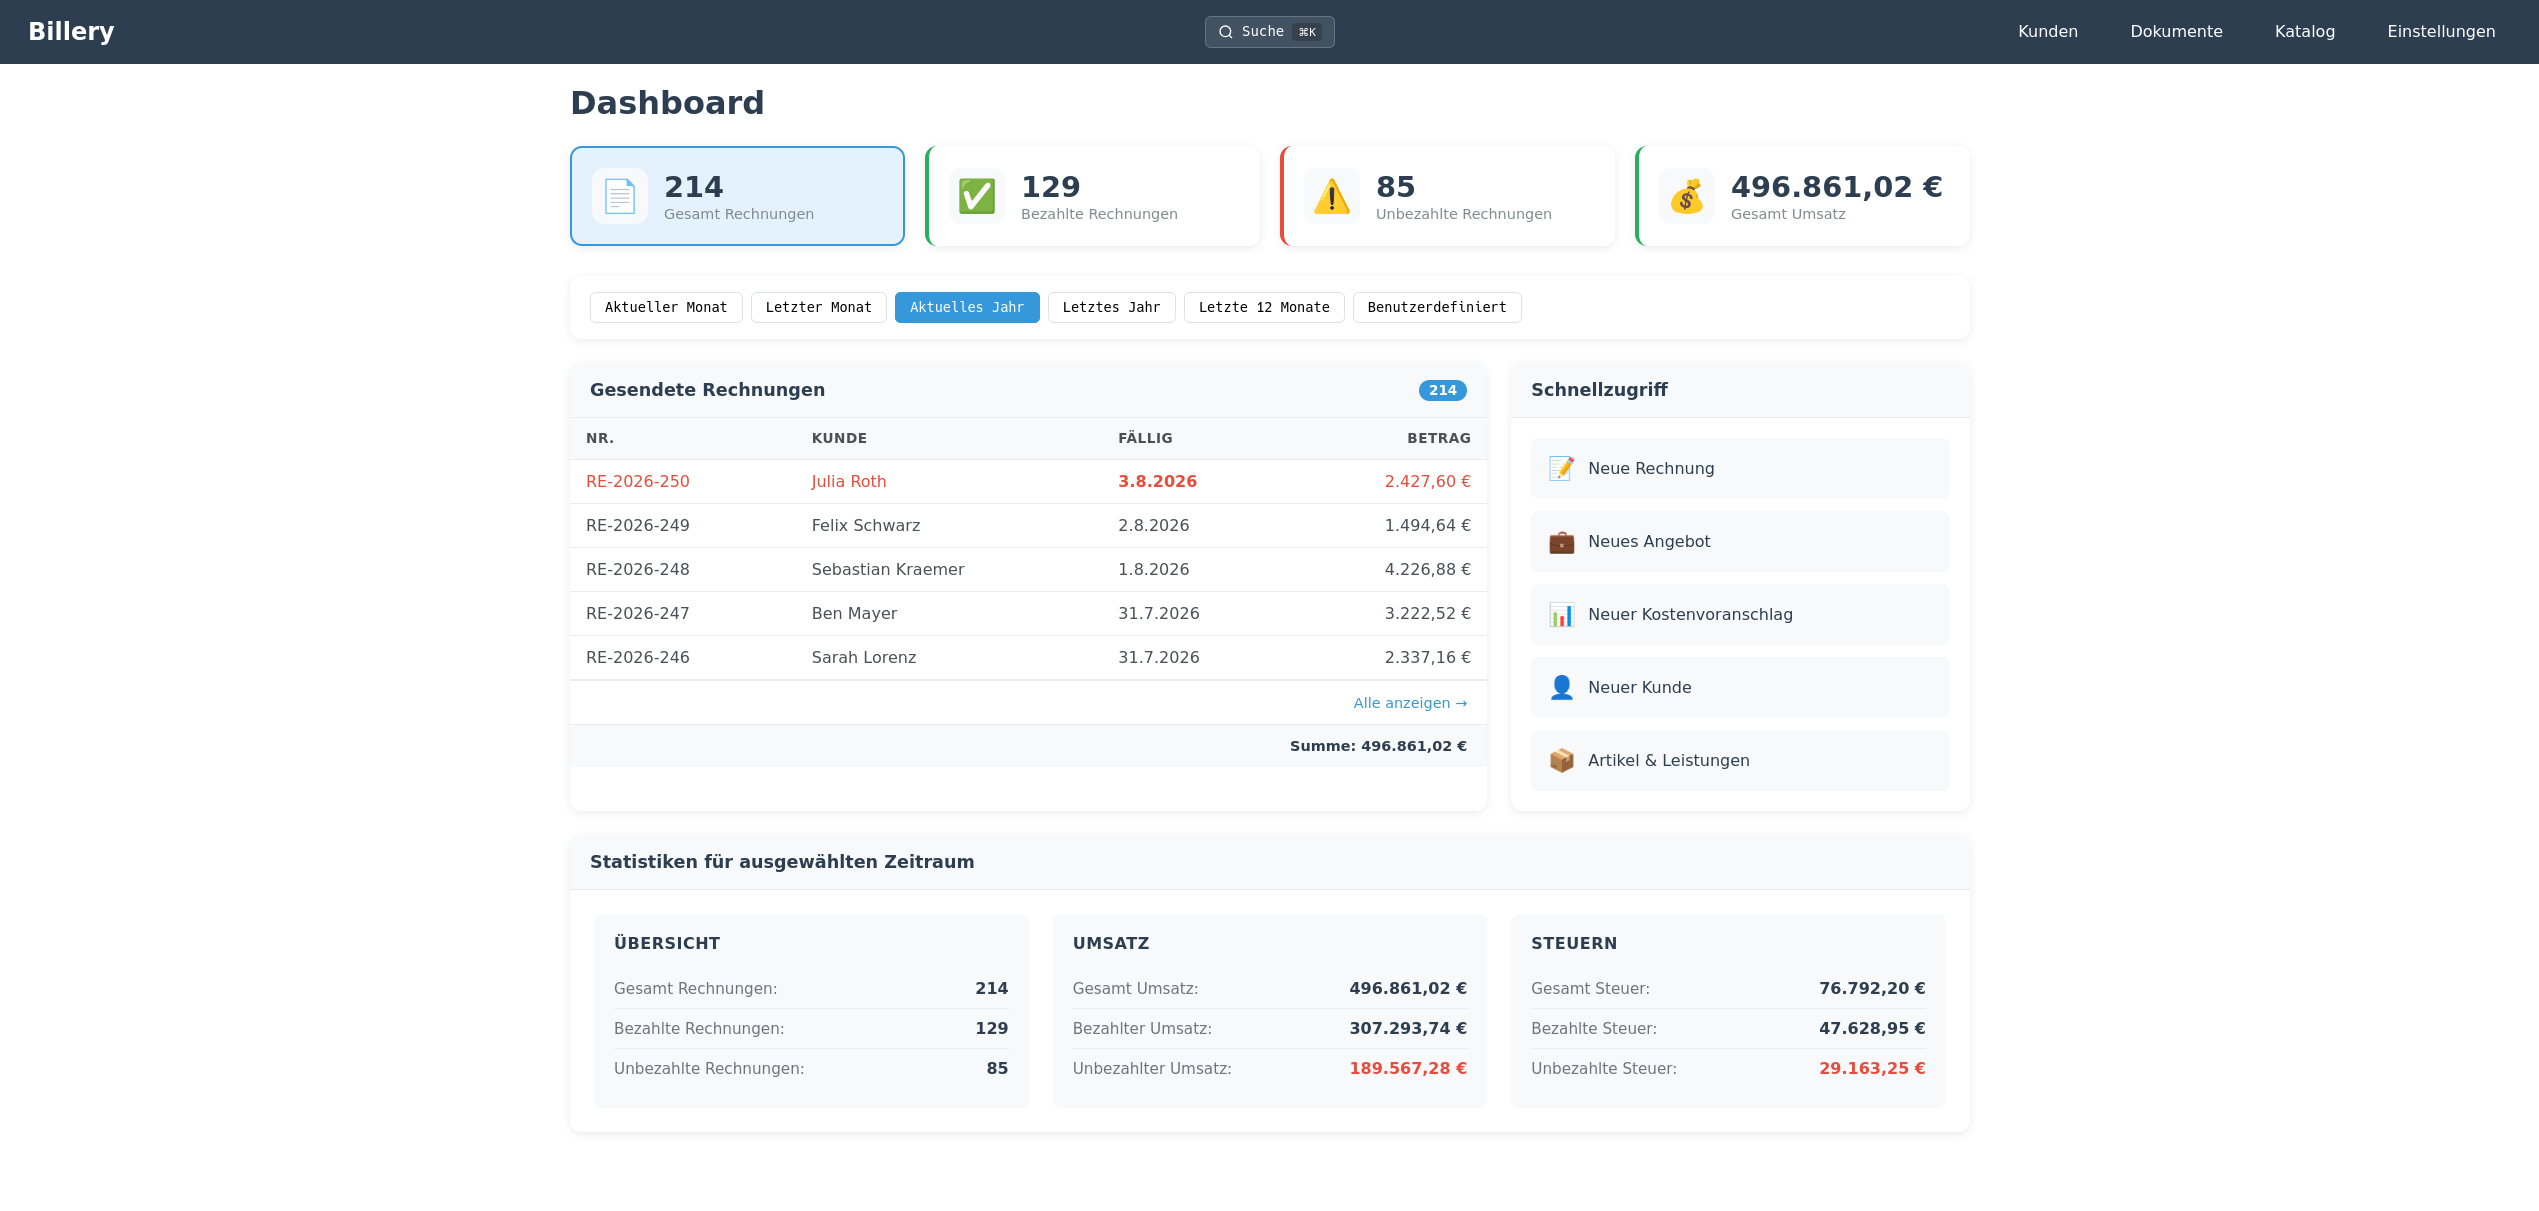
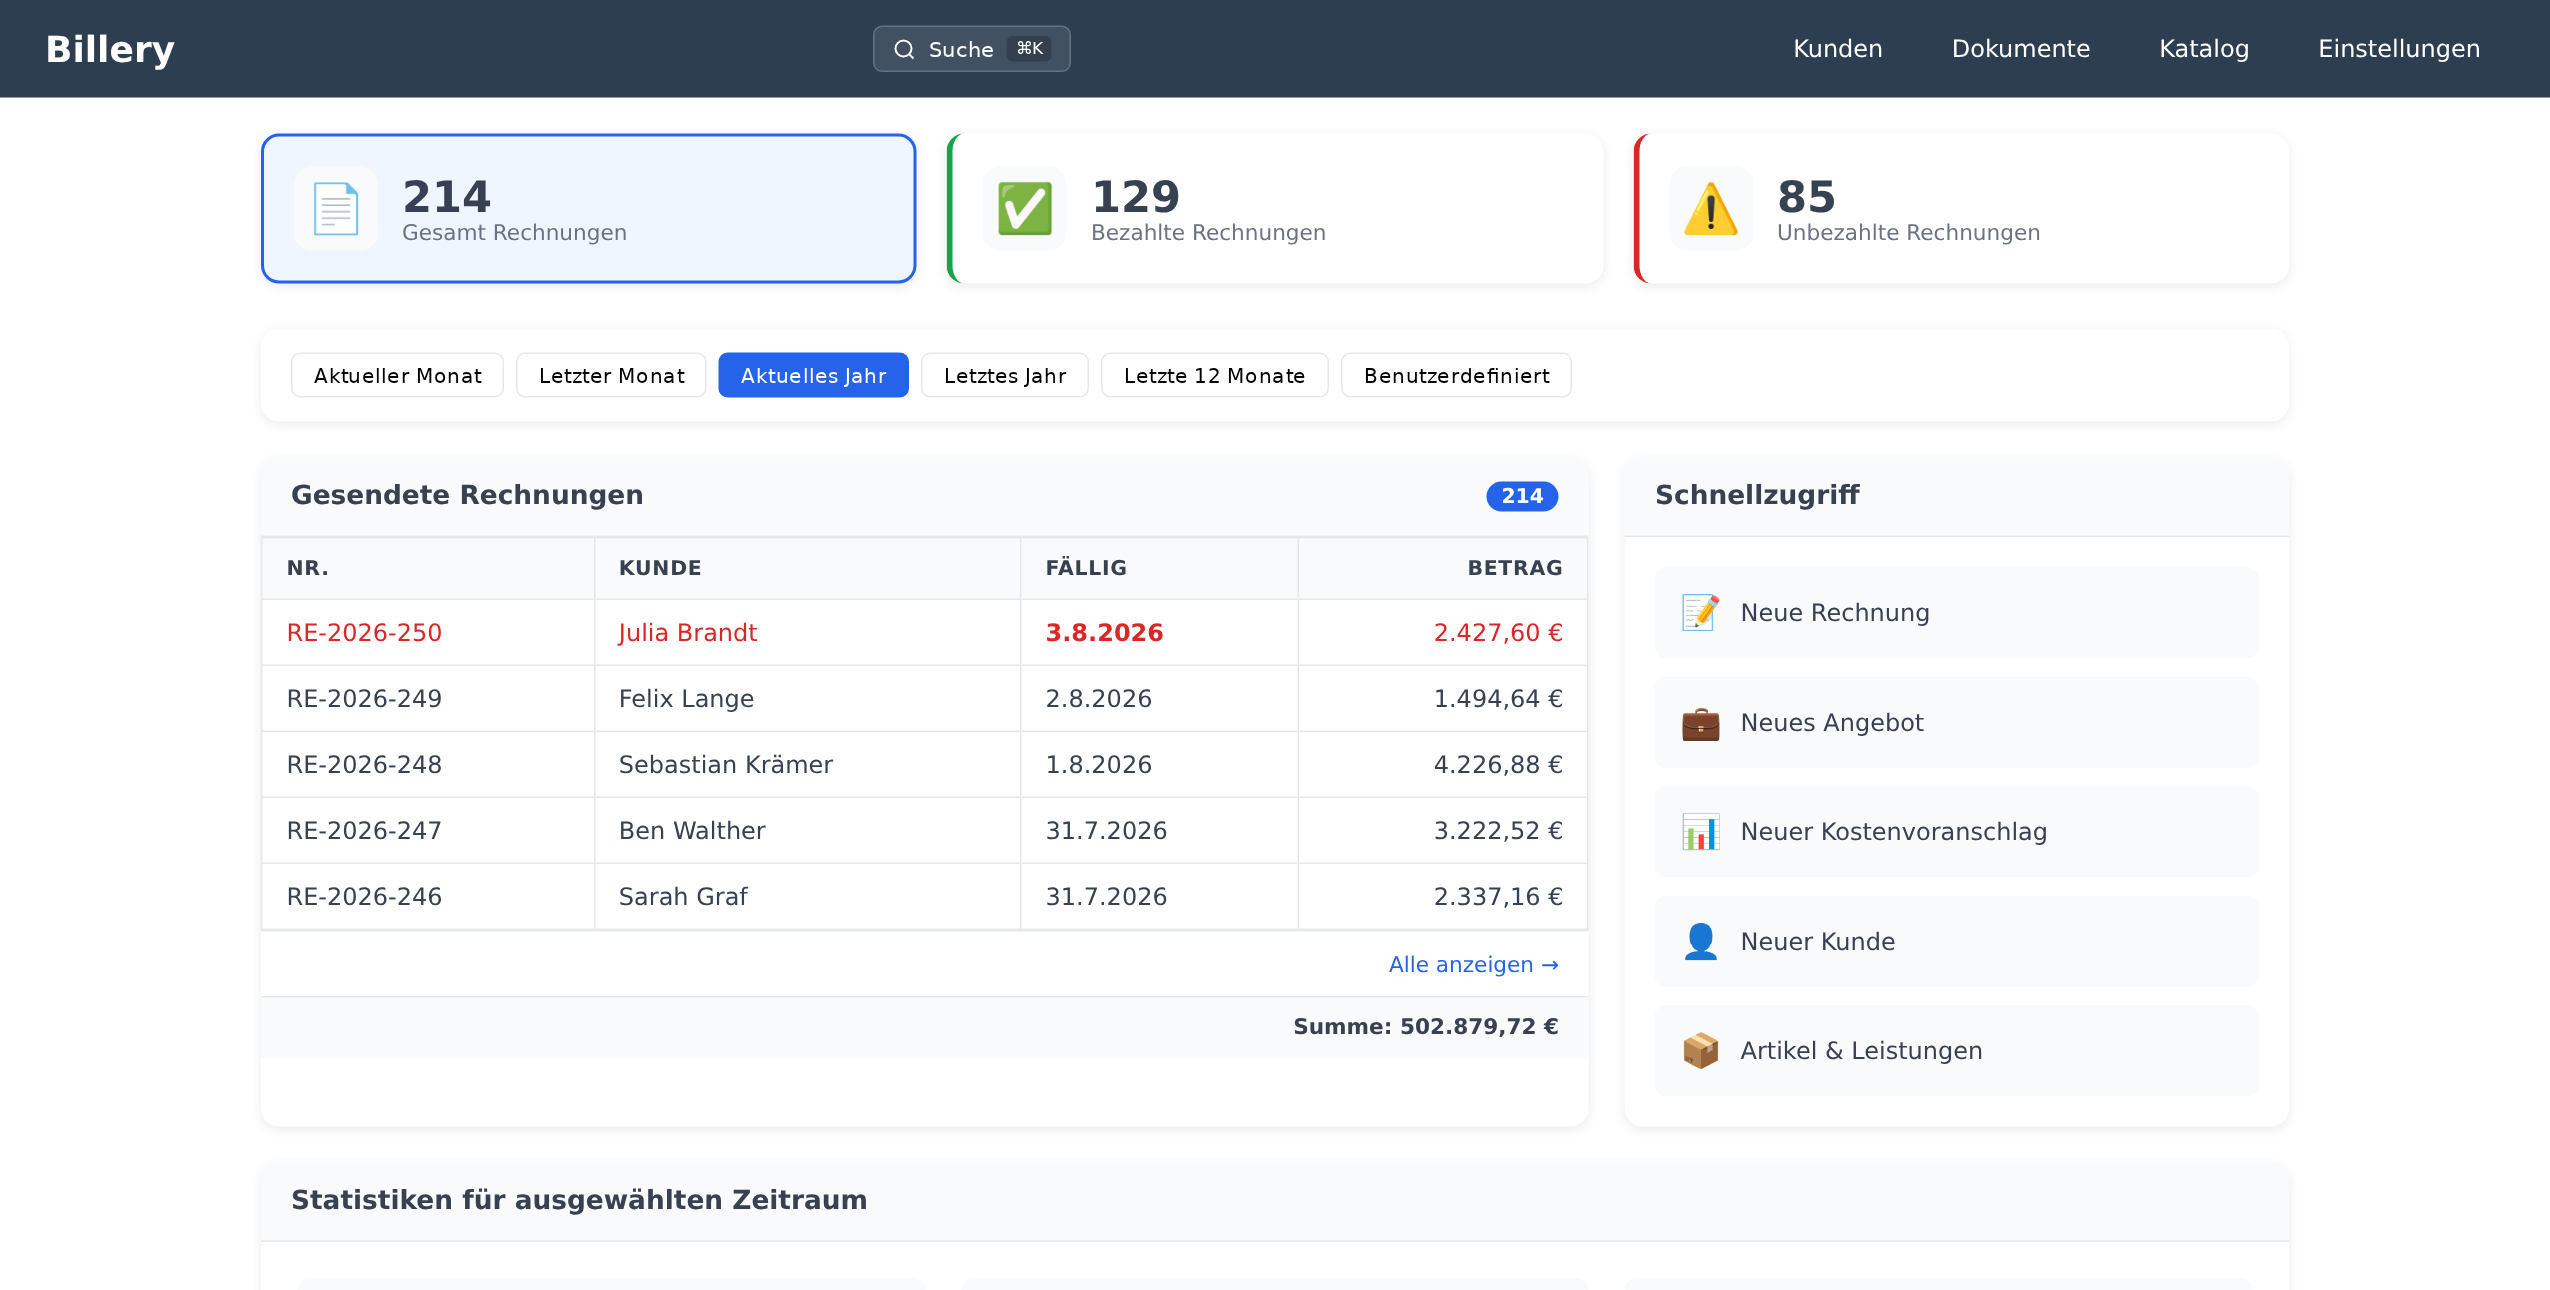
docs: install from the released image; new screenshot
- deploy/selfhost/docker-compose.yml + .env.example: the self-host stack
  from ghcr.io/billery-app/billery:${BILLERY_VERSION}, no build; same
  services, hardening and limits as the root compose file.
- README "Installation": download the two files, set DB_PASSWORD and
  BILLERY_SECRETS_KEY, docker compose up -d; update with pull; building
  from source stays as the second way.
- deployment.md quick start names both ways.
- New dashboard screenshot with the current demo data and design.

diff --git a/README.md b/README.md
@@ -54,15 +54,42 @@ Self-hosted invoicing application for German freelancers and small businesses. M
 - Desktop installers built with Tauri (`scripts/build-desktop.sh`), bundling the backend JAR, a jlink'd JRE and H2
 - REST API with Swagger UI at `/swagger-ui.html` and OpenAPI JSON at `/v3/api-docs`
 
-## Quick start
+## Installation
+
+Billery is published as a ready-made Docker image (`ghcr.io/billery-app/billery`, one tag per
+[release](https://github.com/billery-app/billery/releases), plus `latest`). Nothing has to be
+built: download the Compose file, set two secrets and start it.
+
+**Requirements:** Docker with Compose v2, about 1.5 GB of memory.
 
 ```bash
-cp .env.example .env     # optional: ports, DB passwords, bind address
-docker compose up --build
+mkdir billery && cd billery
+curl -fsSLO https://raw.githubusercontent.com/billery-app/billery/main/deploy/selfhost/docker-compose.yml
+curl -fsSL https://raw.githubusercontent.com/billery-app/billery/main/deploy/selfhost/.env.example -o .env
+
+# in .env: the database password and the key for stored mail passwords
+sed -i "s|^DB_PASSWORD=.*|DB_PASSWORD=$(openssl rand -base64 24)|" .env
+sed -i "s|^BILLERY_SECRETS_KEY=.*|BILLERY_SECRETS_KEY=$(openssl rand -base64 32)|" .env
+
+docker compose up -d
 ```
 
-- App (SPA + API on one origin): `http://localhost:8080`
-- Swagger UI: `http://localhost:8080/swagger-ui.html`
+- App (SPA + API on one origin): `http://localhost:8080`. On the first start a short tour shows
+  the main steps; Einstellungen → Hilfe starts it again.
+- Pin a version for a real install: `BILLERY_VERSION=0.2.0` in `.env`.
+- **Update:** change `BILLERY_VERSION`, then `docker compose pull && docker compose up -d`. The
+  backend migrates the database on start; back up first ([`backup-restore.md`](./docs/operations/backup-restore.md)).
+- Only the image, without Compose: `docker pull ghcr.io/billery-app/billery:latest` (it needs a
+  PostgreSQL 17 database, see [`deployment.md`](./docs/operations/deployment.md)).
+- Keep `BILLERY_SECRETS_KEY` with your other secrets: a new key makes the stored mail passwords
+  unreadable.
+- A public demo instance: [`docs/operations/demo.md`](./docs/operations/demo.md).
+
+**Building from source** (development, or a change of your own): in a clone of this repository,
+`cp .env.example .env`, set `DB_PASSWORD`, then `docker compose up --build`. The root
+`docker-compose.yml` builds the same image from the code.
+
+### Running it safely
 
 The stack brings up PostgreSQL and the backend image, which also serves the built frontend. Self-host mode has no login of its own: it is published on `127.0.0.1` only by default. API writes require a same-origin `Origin` or `Referer`; the backend also sets CSP, nosniff, frame-protection, and HTTPS-only HSTS headers. Behind a TLS proxy, forward the actual `X-Forwarded-Proto` / `-Host` values and keep the backend private. See [`docs/operations/deployment.md`](./docs/operations/deployment.md#behind-a-reverse-proxy) for the browser-auth and proxy requirements. Backend settings are read from environment variables (see `backend/env.example`).
 

diff --git a/AGENTS.md b/AGENTS.md
@@ -185,6 +185,7 @@ Versions are in `backend/pom.xml` and `frontend/package.json`; don't copy them h
 
 ## Docker
 
+- `deploy/selfhost/docker-compose.yml` (+ `.env.example`) — the same stack from the released image `ghcr.io/billery-app/billery:${BILLERY_VERSION}`, no build; the README's installation downloads it. Keep its services, hardening and environment in step with the root file.
 - `docker-compose.yml` (root) — full stack: postgres + backend (the backend image also contains the built SPA, `backend/Dockerfile` has the repo root as build context; the old separate `frontend` service is the optional `split` profile). The database starts empty and the backend migrates it with Flyway, so a fresh install has the schema and an empty customer table. This is the production-like layout.
 - Both production compose files (root and `deploy/saas/`) harden and limit the containers: the backend is `read_only` (writable: `uploads` and `logs` volumes, tmpfs `/tmp`), `cap_drop: [ALL]`, `mem_limit` `BACKEND_MEMORY_LIMIT` (heap 75 % via `-XX:MaxRAMPercentage=75` in `backend/Dockerfile`), `cpus`, `pids_limit`; PostgreSQL keeps five capabilities; console logs rotate (`x-logging`). Health checks use `/api/health/ready` (database included, answers within 3 s). Metrics: Actuator + Micrometer Prometheus at `/prometheus` on `BILLERY_METRICS_PORT` only (`management.server.port`, default `-1` = off; `management.endpoints.access.default=none`, only `prometheus` read-only), alert rules and their `promtool` tests in `deploy/saas/monitoring/` (CI job `saas-kit`; the always-firing `BilleryWatchdog` goes to a dead man's switch, `alertmanager.example.yml` checked with `amtool`; disk space of the backend's volumes via `management.metrics.system.diskspace.paths`; `billery_files_store_errors_total` from `saas.storage.MeteredObjectStore`, its counters registered at 0 so `increase()` sees the first error). Heartbeats: `BACKUP_HEALTHCHECK_URL`, `RESTORE_TEST_HEALTHCHECK_URL` (`restore.sh` test mode, also writes `.last-restore-test`); `check.sh` warns on an old restore test, low disk space, closed companies past `PURGE_AFTER_DAYS` and a TLS certificate expiring within 14 days; `/api/health` stays the liveness check the desktop shell needs. A new endpoint that is open in SaaS goes into `SaasSecurityConfig` and the `TENANT_FREE` / `NO_ROLE` sets. Details: `docs/operations/ops-gotchas.md`.
 - `backend/docker-compose.yml` — PostgreSQL only (local dev, port 5432). The database starts empty; set `LOAD_DEMO_DATA=true` in `backend/.env` for the full 2023-2026 demo dataset.

diff --git a/docs/operations/deployment.md b/docs/operations/deployment.md
@@ -31,7 +31,12 @@ Two `docker-compose.yml` files exist:
 
 ## Quick start (Docker)
 
-From the repo root:
+**From the released image** (no build): `deploy/selfhost/docker-compose.yml` with
+`deploy/selfhost/.env.example` pulls `ghcr.io/billery-app/billery:${BILLERY_VERSION}`; the steps are
+in the [README](../../README.md#installation). Same services, hardening and limits as the root
+Compose file below, which builds the image from source; keep the two in step.
+
+**From source**, from the repo root:
 
 ```bash
 cp .env.example .env
@@ -50,10 +55,8 @@ login of its own**. The SaaS build instead uses OIDC access tokens in the
 `Authorization` header; the SPA keeps them in memory and does not use
 cookie/session authentication.
 
-To run a released image instead of building one, replace the `build:` block of the `backend` service
-by `image: ghcr.io/billery-app/billery:<version>` (pin the version, or the digest from the GitHub release)
-(if the package is private, `docker login ghcr.io` with a token that has `read:packages` first). The image is the
-one that was scanned before the release ([`supply-chain.md`](./supply-chain.md)).
+A released image is the one that was scanned before the release ([`supply-chain.md`](./supply-chain.md));
+pin the version in `BILLERY_VERSION`, or the digest from the GitHub release.
 
 For a one-off build:
 
